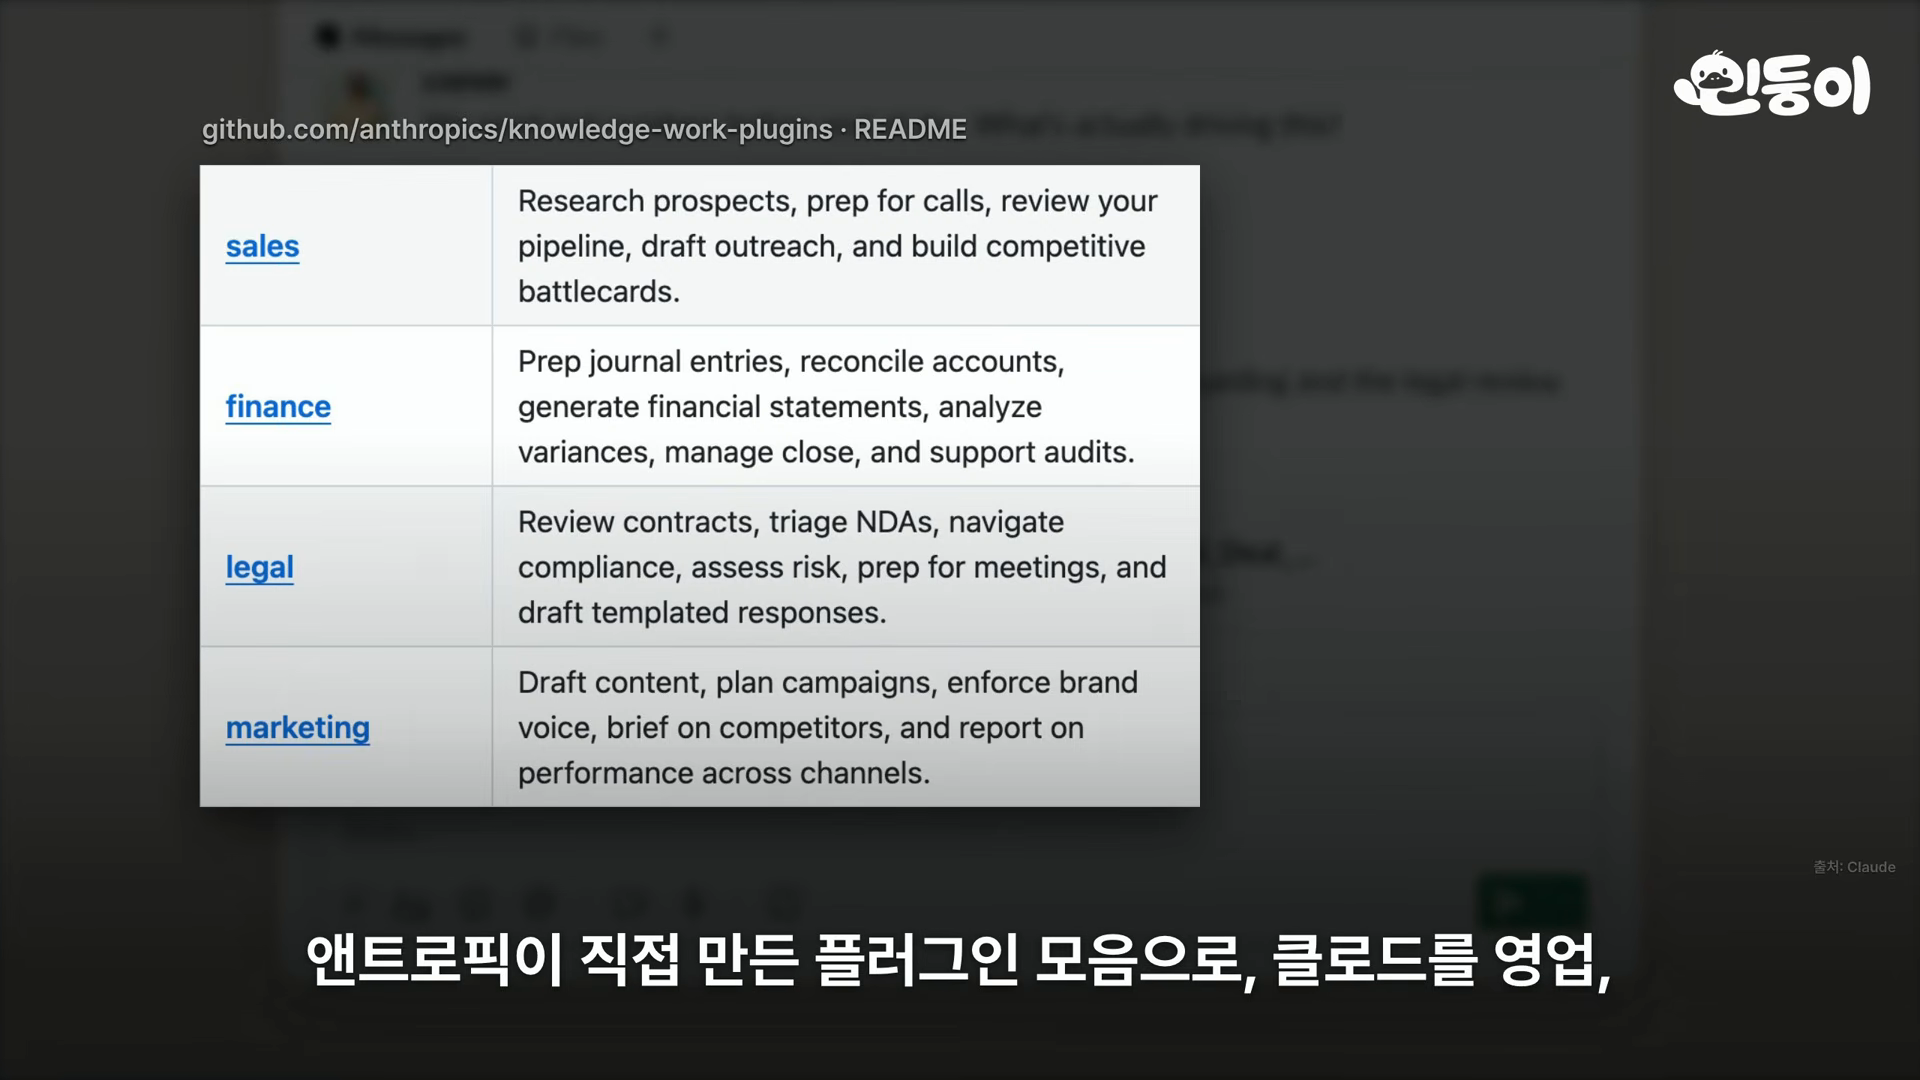
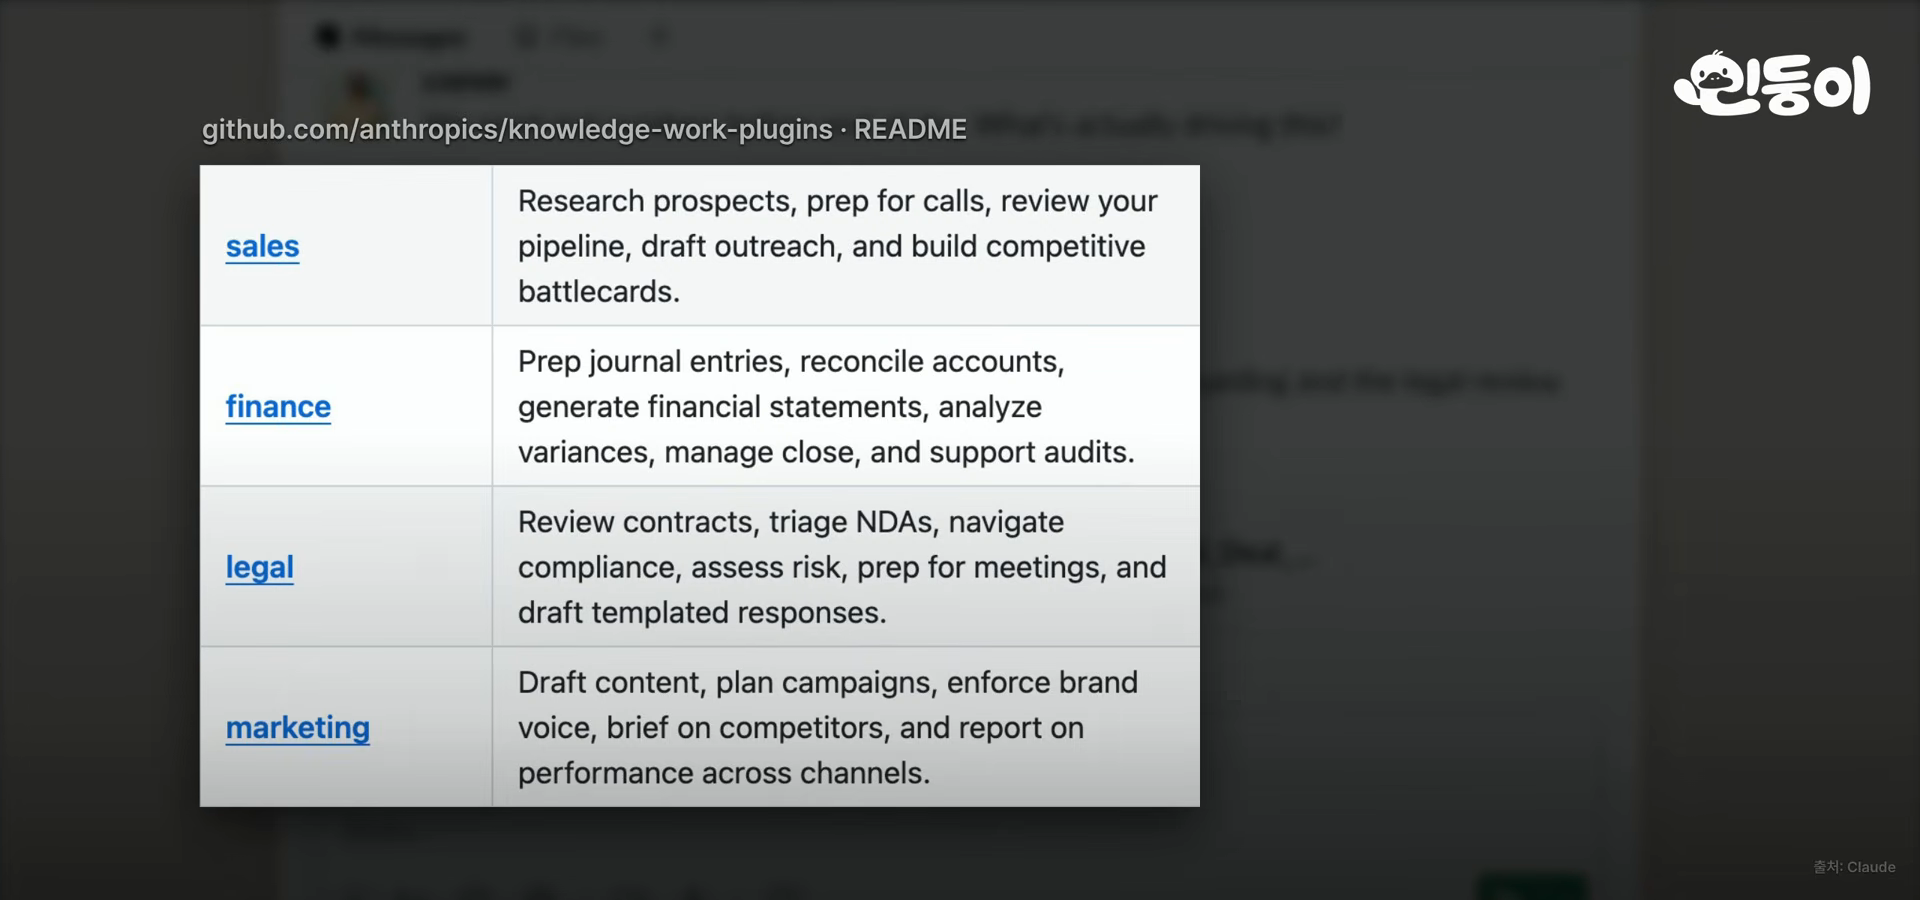
fix: crop subtitle strip from all screenshots, drop unverified 2nd-place ratio claim

diff --git a/_posts/2026/2026-10-29-github-trending-top10-mindung-1028.md b/_posts/2026/2026-10-29-github-trending-top10-mindung-1028.md
@@ -89,7 +89,7 @@ Anthropic이 직접 만든 플러그인 모음으로, Claude를 영업·재무·
 
 ![시큐리티 오딧 스킬 장면](/assets/img/posts/github-trending-top10-mindung-1028/01-security-audit-skill.png)
 
-이번 주에 늘어난 별이 2위보다 다섯 배 넘게 많다. AI 코딩 에이전트를 보안 감사 담당으로 바꿔 주는 스킬인데, 여러 에이전트가 구역을 나눠 취약점을 찾는 데서 끝나지 않는다. **의심되는 것을 찾으면, 찾은 에이전트가 아닌 다른 에이전트가 정말 공격할 수 있는지 반박하며 다시 검증한다.** 메모리 오류, 로그인, 프롬프트 인젝션, 클라우드 설정 실수까지 보고, 코드를 직접 돌려야 할 때는 인터넷이 막힌 격리 공간에서만 돌린다. 결과는 확인된 것과 더 확인할 것을 나눈 보고서로 나온다.
+AI 코딩 에이전트를 보안 감사 담당으로 바꿔 주는 스킬인데, 여러 에이전트가 구역을 나눠 취약점을 찾는 데서 끝나지 않는다. **의심되는 것을 찾으면, 찾은 에이전트가 아닌 다른 에이전트가 정말 공격할 수 있는지 반박하며 다시 검증한다.** 메모리 오류, 로그인, 프롬프트 인젝션, 클라우드 설정 실수까지 보고, 코드를 직접 돌려야 할 때는 인터넷이 막힌 격리 공간에서만 돌린다. 결과는 확인된 것과 더 확인할 것을 나눈 보고서로 나온다.
 
 ## 정리
 
